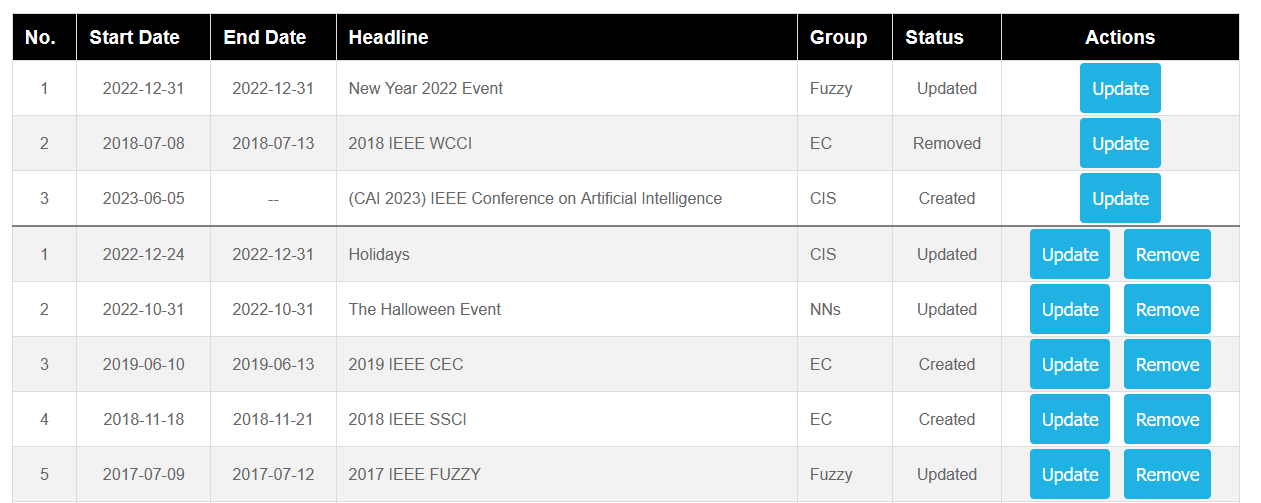
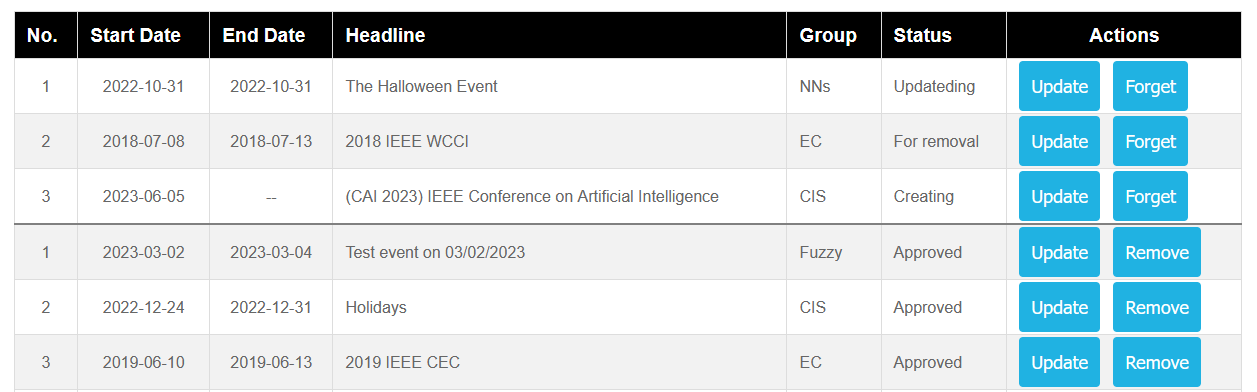
help wording and img

diff --git a/src/help.php b/src/help.php
@@ -103,11 +103,12 @@
           <ul class="helpItem">
             <li>Click on the "Update Event" menu button.</li>
             <img class="helpImg" src="/img/UpdateEvent.png" width="800px" title="Update Event">
-            <li>A list of events will be displayed.</li>
-            <li>Your updated events will be displayed at the top of the list followed by other events in production sorted by starting date. </li>
+            <li>A list of events will be displayed. Your updated events will be displayed at the top of the list followed by other events in production sorted by starting date. </li>
             <img class="helpImg" src="/img/UpdateEventList.png" width="800px" title="Event's list">
-            <li>Click on the "Update" button option. </li>
-            <li>A new page will be loaded with the event's information.</li>
+            <li>Click on the "Update" button option. A new page will be loaded with the event's information.
+              Update the event's information, include some comments or reason about the updates for the committee and click on "Update" to save your changes.
+              You can continue editing the event again until the Historical Committee approve or reject your request.</li>
+            <li>Use the "Forget" button if you want to forget any changes done on the event. After using this option the event will disapered from the edition list and it will be displayed again in the production events without modifiecations.</li>
           </ul>
 
         <br><br><hr><br><br>

diff --git a/src/check-login.php b/src/check-login.php
@@ -9,7 +9,7 @@
   ### Administrator: Everything.
   ### ==========================================================================
 
-  $approvalRolls = array('Committe','Admin'); // Rolls that are allowed to approve and view edited events.
+  $approvalRolls = array('Committee','Admin'); // Rolls that are allowed to approve and view edited events.
 
   ### If session variables are not set the user must login.
   if(isset($_REQUEST['u']) && isset($_REQUEST['r'])){
